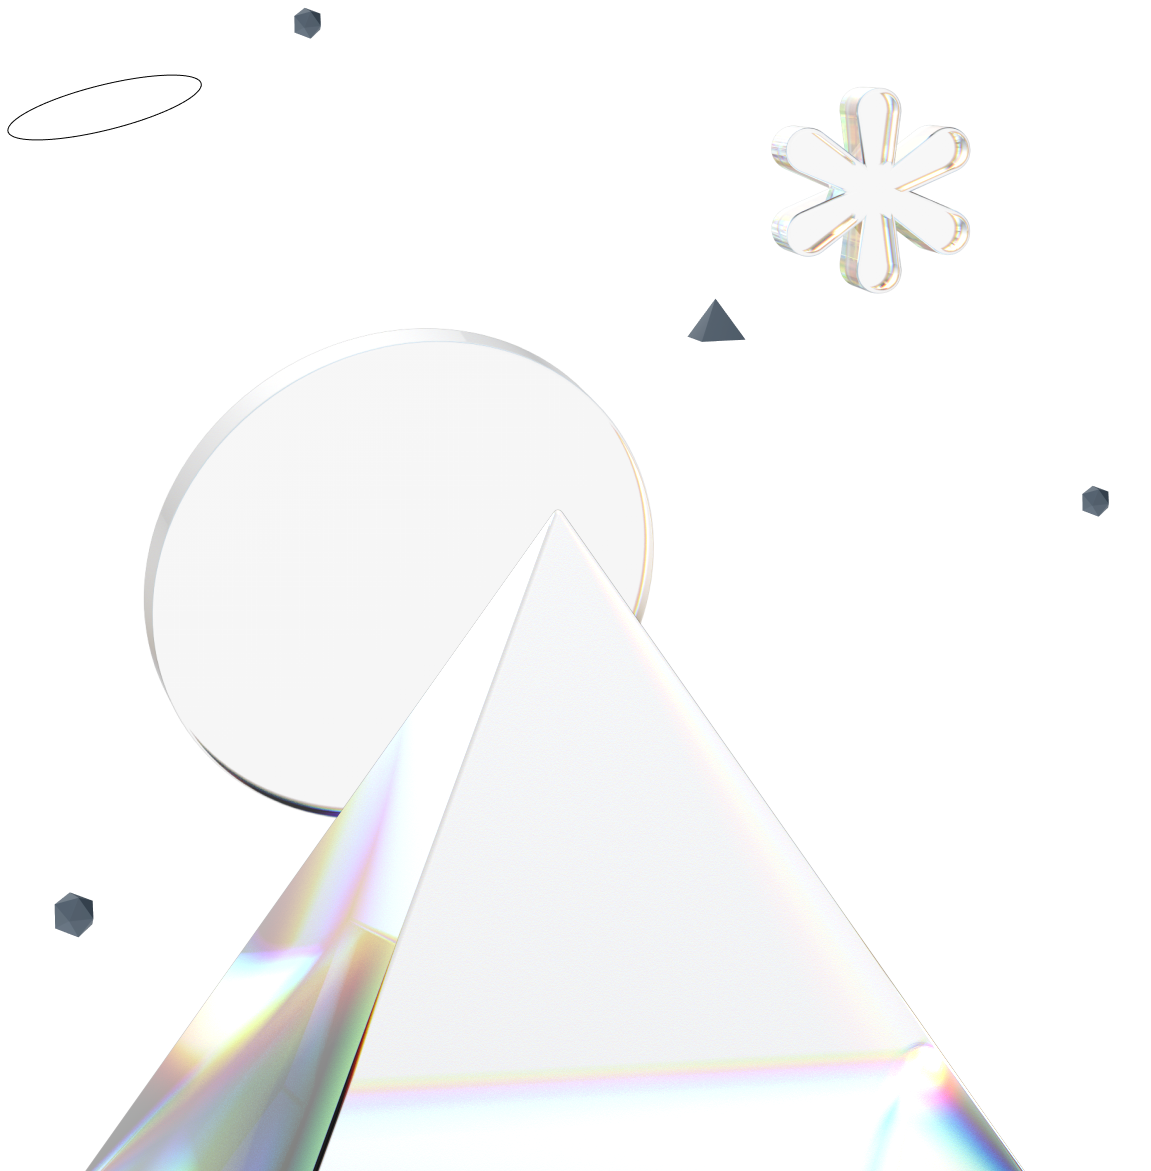
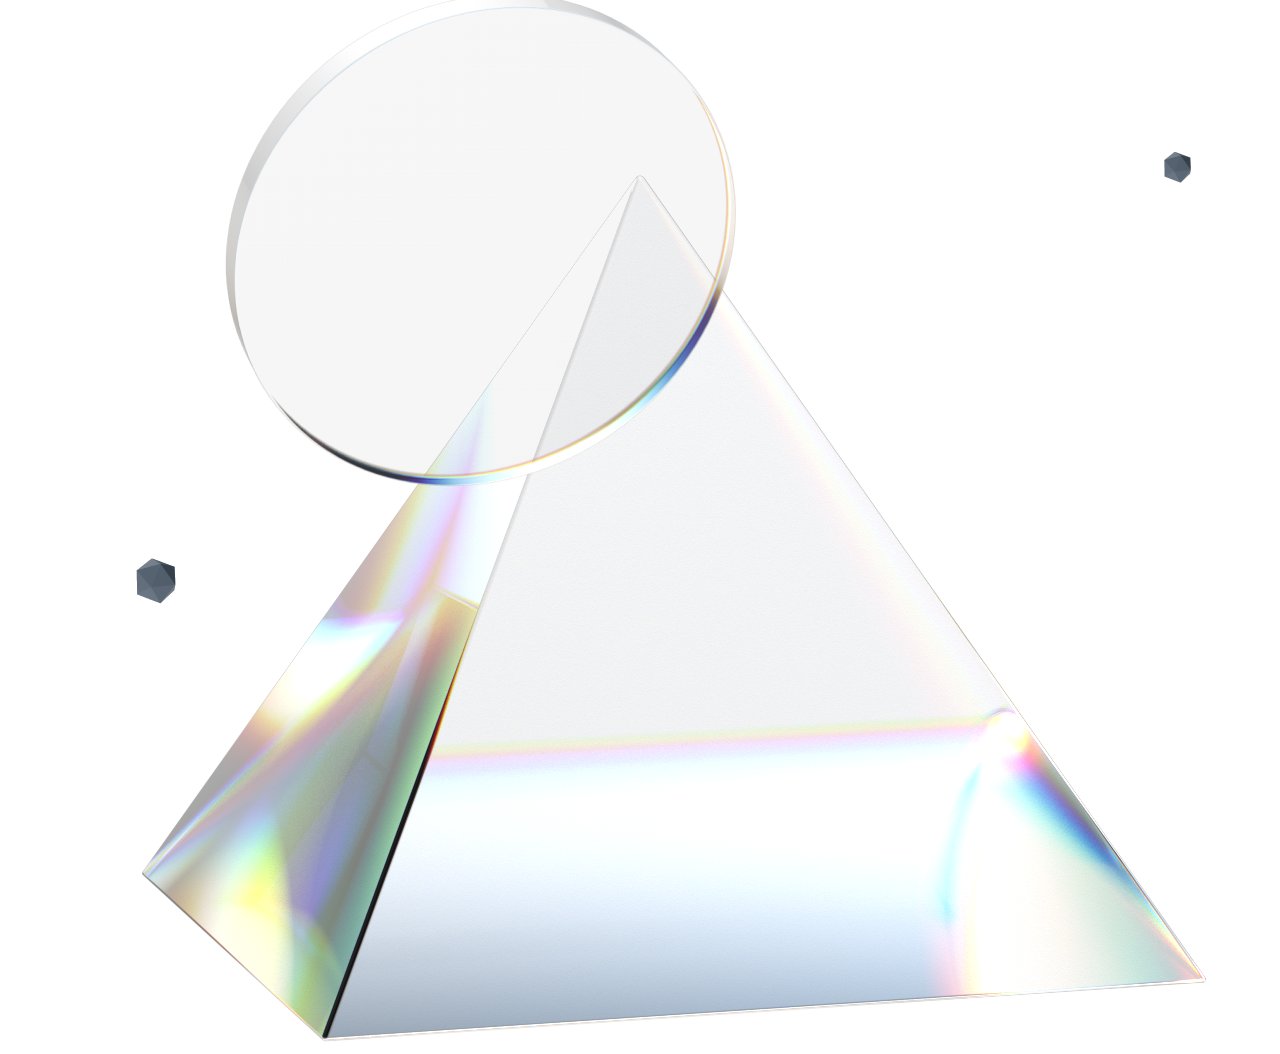
fix dive page

diff --git a/_sass/dive.scss b/_sass/dive.scss
@@ -49,7 +49,7 @@
 
             }
             .cta {
-                max-width: 202.24px;
+                max-width: 202px;
                 height: 58px;
                 font-size: 25px;
                 background: #000000;
@@ -64,8 +64,9 @@
                     margin-left: 190px;
 
                 }
+
                 @media (max-width: 768px) {
-                    margin-left: 130px;
+                    margin-left: 90px;
                     font-size: 16px;
                     
                     
@@ -92,6 +93,9 @@
                     width: 592px;
                     height: 249px;
                     transform: translate(-834px, 335px);
+                    @media (max-width: 768px) {
+                        transform: translate(-674px, 169px);
+                    }
                 }
 
             }
@@ -116,6 +120,7 @@
 
 
             .join-channel__container {
+                margin-top: 285px;
                 .join-channel__img {
                     text-align: center;
                     img{
@@ -129,24 +134,40 @@
                             
                         }
                     }
-                    
                 }
-                .join-channel__btn {
-                    margin: 0 auto;
-                    width: 703px;
-                    height: 98px;
+                .join-channel__act{
                     font-family: 'Dela Gothic One';
-                    font-weight: 900;
-                    font-size: 30px;
-                    line-height: 43px;
+                    font-weight: 400;
+                    font-size: 20px;
+                    line-height: 18px;
                     text-align: center;
-                    letter-spacing: 2.625px;
-                    padding: 31px 53px;
-                    border: 1px solid rgba(163, 255, 248, 0.45);
-                    background-color: rgba(163, 255, 248, 0.45);
-                    box-shadow: 6px 4px 13px rgba(0, 0, 0, 0.2);
+                    letter-spacing: 1.1px;
+                    margin-bottom: 46px;
+                }
+                .join-channel__btn1{
+                    margin: 0 auto 40px;
+                    max-width: 202px;
+                    height: 58px;
+                    font-size: 25px;
+                    background: #000000;
+                    opacity: 0.45;
+                    border: 2px solid #000000;
+                    box-sizing: border-box;
+                    box-shadow: 6px 4px 13px rgba(0, 0, 0, 0.5);
                     border-radius: 62px;
-                    transform: translate(0px, 506px);
+                    text-align: center;
+                }
+                .join-channel__btn2 {
+                    margin: 0 auto;
+                    width: 616px;
+                    height: 43px;
+                    background: #000000;
+                    border-radius: 50px;
+                    position: relative;
+                    img{
+                        position: absolute;
+                        transform: translate(34px, -19px);
+                    }
                     @media (max-width: 1024px) {
                         width: 615px;
                         height: 75px;
@@ -175,79 +196,7 @@
 
     }
     .dive__footer {
-        background: #000000;
-        margin: 0 auto;
-        .footer__container {
-            text-align: center;
-            padding: 64px 0;
-            .footer__text {
-                width: 753px;
-                font-family: 'Montserrat';
-                font-style: italic;
-                font-weight: 500;
-                font-size: 20px;
-                line-height: 24px;
-                text-align: center;
-                letter-spacing: 0.625px; 
-                color: white;
-                margin: 0 auto;
-                @media (max-width: 768px) {
-                    width: 500px;
-                    font-size: 14px;
-                    
-                }
-                @media (max-width: 425px) {
-                    width: 300px;
-                    font-size: 10px;
-                    line-height: 15px;
-                }
-            }
-            img{
-                margin-right: 15px;
-                margin-top: 20px;
-                @media (max-width: 768px) {
-                    margin-right: 10px;
-                    
-                }
-            }
-        
-            .like {
-                width: 31px;
-                height: auto;
-                @media (max-width: 768px) {
-                    width: 25px;
-                    
-                }
-                @media (max-width: 768px) {
-                    width: 15px;
-                    
-                }
-            }
-            .instagram {
-                width: 29px;
-                height: auto;
-                @media (max-width: 768px) {
-                    width: 25px;
-                    
-                }
-                @media (max-width: 768px) {
-                    width: 15px;
-                    
-                }
-            }
-            .youtube {
-                width: 29px;
-                height: auto;
-                @media (max-width: 768px) {
-                    width: 25px;
-                    
-                }
-                @media (max-width: 768px) {
-                    width: 15px;
-                    
-                }
-            }
-        }
-    
+        margin-top: -270px;
+
     }
 }

diff --git a/_sass/section-info.scss b/_sass/section-info.scss
@@ -36,6 +36,11 @@
         z-index: 100;
         
     }
+    &.b-4{
+        display: block;
+        width: 810px;
+        transform: translate(116px, 102px);
+    }
     
 
     .info {
@@ -74,7 +79,7 @@
                     border-bottom: 1px solid rgba(136, 204, 252, 1);
                     width: 76px;
                     height: 1px;
-                    transform: translate(372px, 102px);
+                    transform: translate(373px, 137px);
                     @media (max-width: 768px) {
                         transform: translate(306px, 52px);  
                         width: 56px;
@@ -95,7 +100,7 @@
             &.s-3{
                 font-size: 10px;
                 margin-bottom: 55px;
-                padding-left: 60px;
+                padding-left: 62px;
                 @media (max-width:768px) {
                     margin-bottom: 20px;   
                 }
@@ -182,7 +187,7 @@
         h2{
             font-family: 'DelaGothicOne';    
             font-weight: 400;
-            font-size: 50px;
+            font-size: 69px;
             line-height: 63px;
             letter-spacing: 1.5px;
             margin: 20px 0 50px 0;
@@ -196,6 +201,10 @@
                 font-size: 30px;
                 line-height: 30px;
                 
+            }
+            &.h-1{
+                font-size: 50px;
+                width: 460px;
             }
             
             &.h-2{
@@ -223,7 +232,6 @@
                 }
             }
             &.h-2 {
-                font-size: 69px;
                 @media (max-width: 768px){
                     font-size: 50px;
                 }
@@ -233,7 +241,6 @@
                 }
             }
             &.h-3 {
-                font-size: 69px;
                 padding-left: 60px;
                 @media (max-width: 768px){
                     font-size: 50px;
@@ -303,6 +310,9 @@
                 height: 53px;
                 position: absolute;
                 transform: translate(60px, 63px);
+                @media (max-width: 1024px) {
+                    transform: translate(77px, 63px);
+                }
             }
         }
         &.t-2{
@@ -367,8 +377,9 @@
             }
         }
         &.t-3{
-            padding: 0 145px 0 78px;
+            width: 320px;
             direction: ltr;
+            transform: translate(-158px, 0px);
             @media (max-width:1024px) {
                 padding: 0 100px 0 47px;   
             }
@@ -424,6 +435,10 @@
                 
                 
             }
+        }
+
+        &.t-4{
+            width: 360px;
         }
 
     }
@@ -554,7 +569,7 @@
 .background__decoration{
     text-align: center;
     z-index: 10;
-    margin-top: -902px;
+    margin-top: -883px;
     margin-left: 173px;
     @media (max-width: 1024px) {
         img{

diff --git a/dive.html b/dive.html
@@ -120,8 +120,15 @@ images: "/assets/images/Dive__h1.png"
     </div>
 
     <div class="join-channel__container">
-      <div class="join-channel__btn">
-        <a href="#">Join our Discord channel now</a>
+      <div class="join-channel__act">
+        <p>Join our community and get to know more.
+        </p>
+      </div>
+      <div class="join-channel__btn1">
+          <a href="#"><img src="/assets/images/LAUNCH_APP.png" alt="LAUNCH_APP"></a>
+      </div>
+      <div class="join-channel__btn2">
+        <a href="#"><img src="/assets/images/join__now.png" alt="join now"></a>
       </div>
       <div class="join-channel__img">
         <img src="/assets/images/group_of_images.png" alt="piramid with decorations">
@@ -129,24 +136,7 @@ images: "/assets/images/Dive__h1.png"
     </div>
   </div>
   <div class="dive__footer">
-    <div class="footer__container">
-      <div class="footer__text">
-          <p>SVENIR is the first souvenir DAO in the world; Be part of the
-              WEhomies adventures trought Highly curated digital assets in the
-              real world & in the metaverse.</p>
-      </div>
-      <div class="footer__social">
-          <a href="#">
-              <img src="/assets/images/like_white.png" alt="like" class="like">
-          </a>
-          <a href="#">
-              <img class="instagram" src="/assets/images/white_instagram.png" alt="instagram">
-          </a>
-          <a href="#">
-              <img src="/assets/images/white_youtube.png" alt="youtube" class="youtube">
-          </a>
-      </div>
-    </div>
+    {%- include footer.html -%}
   </div>
 </div>
 

diff --git a/_layouts/default.html b/_layouts/default.html
@@ -6,7 +6,5 @@
     {{content}}
   </main>
 </body>
+
 </html>
-<style>
-  
-</style>
